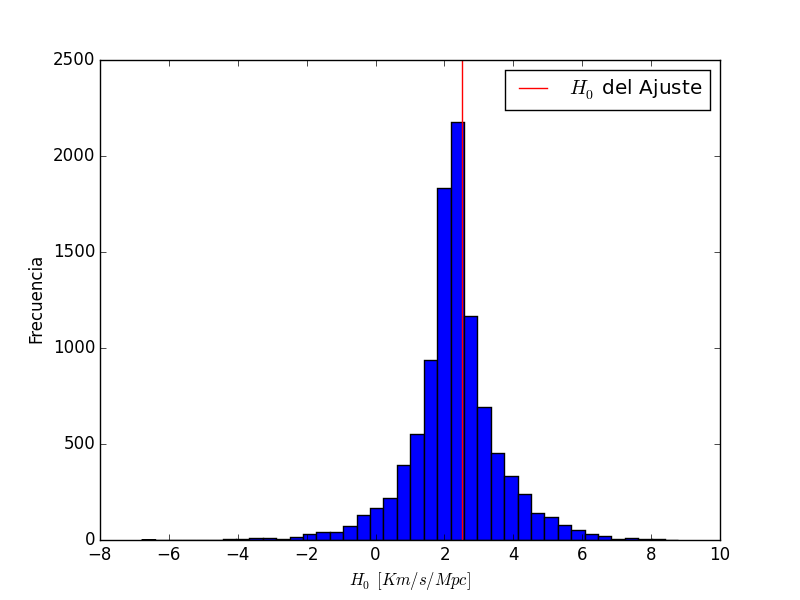
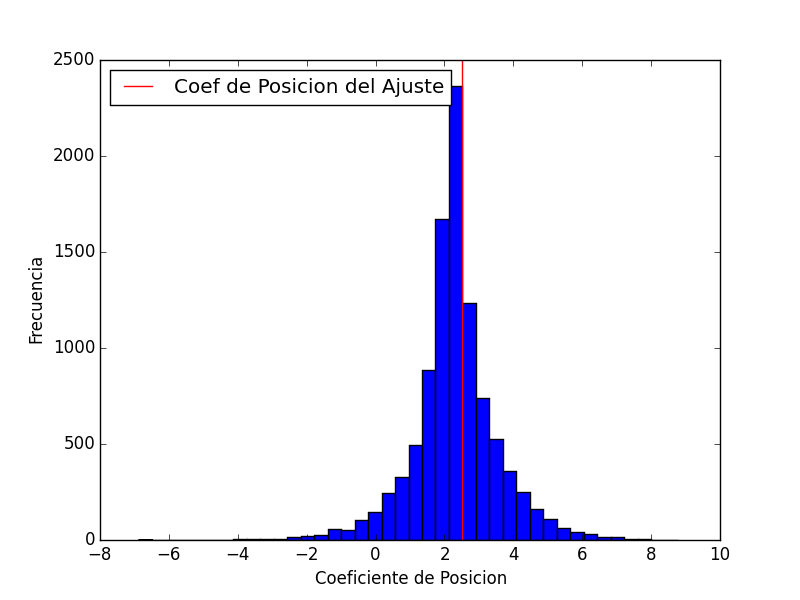
cambios pequeños

diff --git a/parte3.py b/parte3.py
@@ -69,7 +69,7 @@ def intervalo_confianza(muestra_x, muestra_y, err_x, err_y, porcentaje):
         promedios_b[i-1] = b_i
     promedios_a = np.sort(promedios_a)
     promedios_b = np.sort(promedios_b)
-    minim = ((100 - porcentaje) /2) * 0.01
+    minim = ((100 - porcentaje) / 2) * 0.01
     maxim = 1 - (minim)
     lim_min_a = promedios_a[int(Nmc * minim)]
     lim_max_a = promedios_a[int(Nmc * maxim)]
@@ -81,6 +81,11 @@ def intervalo_confianza(muestra_x, muestra_y, err_x, err_y, porcentaje):
 
 
 def biseccion(x, y):
+    '''
+    mejora de la funcion biseccion. obtiene la pendiente entre dos rectas y el
+    coeficiente de posicion segun la interseccion de las dos rectas que se
+    generan
+    '''
     a1, b1 = np.polyfit(x, y, 1)
     a_0, b_0 = np.polyfit(y, x, 1)
     a2 = 1 / a_0
@@ -93,18 +98,23 @@ def biseccion(x, y):
 
 
 def histograma_confianza(promedios_1, promedios_2):
+    '''
+    grafica los dos histogramas para pendiente y coeficiente de posicion
+    es una funcion circunstancial, se puede mejorar para graficar de forma
+    generica
+    '''
     fig2, ax2 = plt.subplots()
     plt.hist(promedios_1, bins=40)
-    plt.axvline(aprox1[0], color='r', label="$H_0$ del Ajuste")
+    plt.axvline(aprox1[0], color='r', label="Pendiente del Ajuste")
     plt.legend()
-    ax2.set_xlabel("$H_0$ $[Km/s /Mpc]$")
+    ax2.set_xlabel("Pendiente")
     ax2.set_ylabel("Frecuencia")
     plt.savefig("histograma_parte3_pendiente.png")
     fig3, ax3 = plt.subplots()
     plt.hist(promedios_2, bins=40)
-    plt.axvline(aprox1[1], color='r', label="$H_0$ del Ajuste")
-    plt.legend()
-    ax3.set_xlabel("$H_0$ $[Km/s /Mpc]$")
+    plt.axvline(aprox1[1], color='r', label="Coef de Posicion del Ajuste")
+    plt.legend(loc=2)
+    ax3.set_xlabel("Coeficiente de Posicion")
     ax3.set_ylabel("Frecuencia")
     plt.savefig("histograma_parte3_coefdeposicion.png")
 

diff --git a/parte1.py b/parte1.py
@@ -84,7 +84,7 @@ def intervalo_confianza(muestra_x, muestra_y, porcentaje):
         aprox = biseccion(x_i, y_i)
         promedios[i] = aprox
     promedios = np.sort(promedios)
-    minim = ((100 - porcentaje) /2) * 0.01
+    minim = ((100 - porcentaje) / 2) * 0.01
     maxim = 1 - (minim)
     lim_min = promedios[int(N_iteracion * minim)]
     lim_max = promedios[int(N_iteracion * maxim)]
@@ -94,16 +94,24 @@ def intervalo_confianza(muestra_x, muestra_y, porcentaje):
 
 
 def biseccion(d, v, adivinanza=500):
+    '''
+    obtiene recta de biseccion entre las dos rectas del ajuste entre los sets
+    de datos dados
+    '''
     aprox1 = aprox_manual(d, v, adivinanza)
     aprox2 = aprox_manual(v, d, 1. / adivinanza)
     ap1 = aprox1
     ap2 = 1 / aprox2
-    a = (ap1 * ap2 - 1 + np.sqrt((1 + ap1 ** 2) * (1 + ap2 ** 2))) / (ap1 + ap2)
+    a = (ap1 * ap2 - 1 +
+         np.sqrt((1 + ap1 ** 2) * (1 + ap2 ** 2))) / (ap1 + ap2)
     return a
     pass
 
 
 def histograma_confianza(promedios):
+    '''
+    grafica histogramas para el intervalo de confianza
+    '''
     fig2, ax2 = plt.subplots()
     plt.hist(promedios, bins=40)
     plt.axvline(H_0, color='r', label="$H_0$ del Ajuste")

diff --git a/parte2.py b/parte2.py
@@ -76,7 +76,7 @@ def intervalo_confianza(muestra_x, muestra_y, porcentaje):
         aprox = biseccion(x_i, y_i)
         promedios[i] = aprox
     promedios = np.sort(promedios)
-    minim = ((100 - porcentaje) /2) * 0.01
+    minim = ((100 - porcentaje) / 2) * 0.01
     maxim = 1 - (minim)
     lim_min = promedios[int(N_iteracion * minim)]
     lim_max = promedios[int(N_iteracion * maxim)]
@@ -85,15 +85,23 @@ def intervalo_confianza(muestra_x, muestra_y, porcentaje):
 
 
 def biseccion(d, v, adivinanza=500):
+    '''
+    obtiene recta de biseccion entre las dos rectas del ajuste entre los sets
+    de datos dados
+    '''
     aprox1 = aprox_manual(d, v, adivinanza)
     aprox2 = aprox_manual(v, d, 1. / adivinanza)
     ap1 = aprox1
     ap2 = 1 / aprox2
-    a = (ap1 * ap2 - 1 + np.sqrt((1 + ap1 ** 2) * (1 + ap2 ** 2))) / (ap1 + ap2)
+    a = (ap1 * ap2 - 1 +
+         np.sqrt((1 + ap1 ** 2) * (1 + ap2 ** 2))) / (ap1 + ap2)
     return a
 
 
 def histograma_confianza(promedios):
+    '''
+    grafica histogramas para el intervalo de confianza
+    '''
     fig2, ax2 = plt.subplots()
     plt.hist(promedios, bins=40)
     plt.axvline(H_0, color='r', label="$H_0$ del Ajuste")
